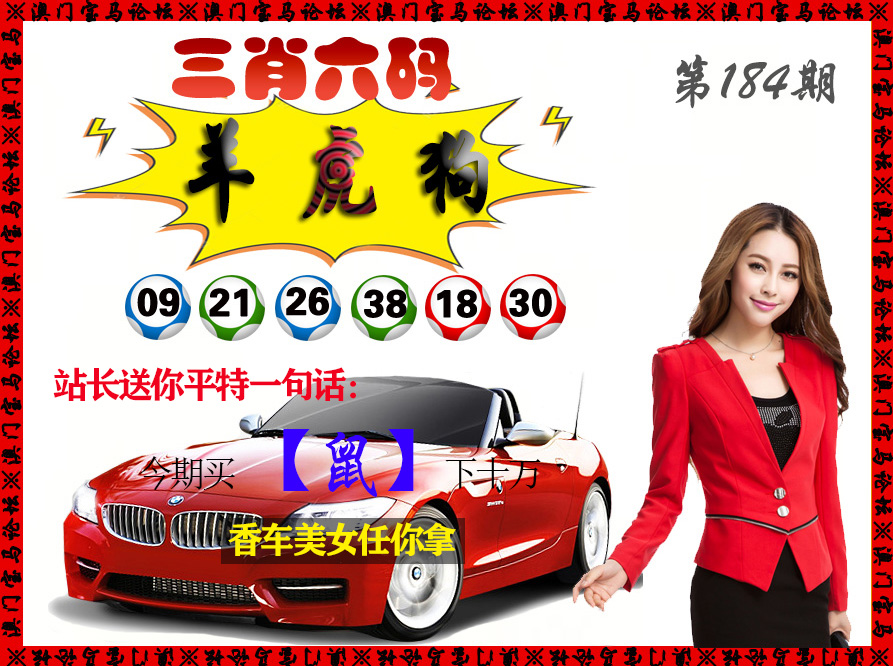
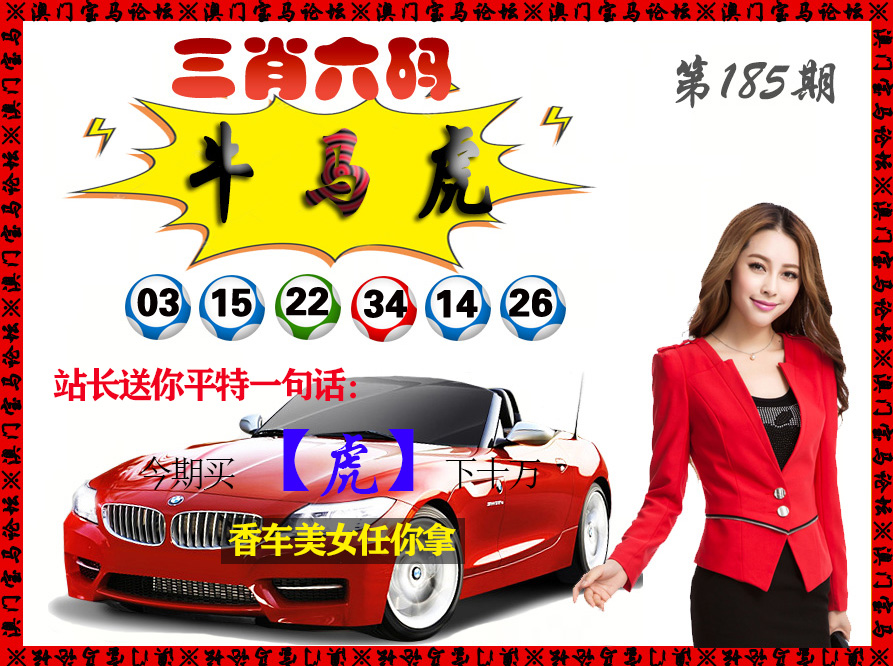
Update:  2023.07.04 02:26:08

diff --git a/Script/Src/xjw/管家婆解析.js b/Script/Src/xjw/管家婆解析.js
@@ -25,8 +25,8 @@ document.writeln("	");
 document.writeln("		<p align=\'left\'>");
 document.writeln("	");
 document.writeln("		<span><font size=\'4\'>185期:<font color=\'#008000\'>【精解管家婆一句话】</font><font color=\'#FF0000\'>开？00</font><font color=\'#008000\'><br>");
-document.writeln("		</font><font color=\'#6600CC\'>【更新中】【更新中】<br></font></font>");
-document.writeln("		<font color=\'#0000FF\' size=\'4\'>解：更新中。综合取肖</font><font color=\'#FF0000\' size=\'4\'>更新中</font><font color=\'#0000FF\' size=\'4\'>   本期平特更新中。<br>本期取码：更新中</td></tr>");
+document.writeln("		</font><font color=\'#6600CC\'>【牛头马嘴三九开】【猴年马月】<br></font></font>");
+document.writeln("		<font color=\'#0000FF\' size=\'4\'>解：牛头马嘴三九开，单笔:鼠龙蛇马鸡猪。综合取肖</font><font color=\'#FF0000\' size=\'4\'>鼠龙蛇马鸡猪</font><font color=\'#0000FF\' size=\'4\'>   本期平特猴马。<br>本期取码：40.28.12.48.11.23.34.46.07.19.41.17</td></tr>");
 document.writeln("		");
  
 

diff --git a/Script/Src/xjw/传真九肖.js b/Script/Src/xjw/传真九肖.js
@@ -26,9 +26,9 @@ document.writeln("	");
 document.writeln("		<p align=\'left\'>");
 document.writeln("	");
 document.writeln("		<span><font size=\'4\'>185期:<font color=\'#008000\'>【澳门传真特围生肖】</font><font color=\'#FF0000\'>开？00</font><font color=\'#008000\'><br>");
-document.writeln("		</font><font color=\'#0000FF\'>更新中。<br>");
-document.writeln("		【更新中】</font><br><b><font color=\'#FF0000\'>");
-document.writeln("				特围生肖:更新中<br>主特六肖：更新中</font></b></font></td></tr>");
+document.writeln("		</font><font color=\'#0000FF\'>今期生肖出二门，自古英雄出少年。梁祝徇情化彩蝶，红蓝特码送大家。特码得出是雪人，寒梅傲雪留清香。初生牛仔不怕虎，双数合单灵码现。<br>");
+document.writeln("		【叽里咕噜】</font><br><b><font color=\'#FF0000\'>");
+document.writeln("				特围生肖:猪狗兔马鼠猴羊牛<br>主特六肖：猪狗兔马鼠猴</font></b></font></td></tr>");
 document.writeln("");
 
 document.writeln("	<tr>");
